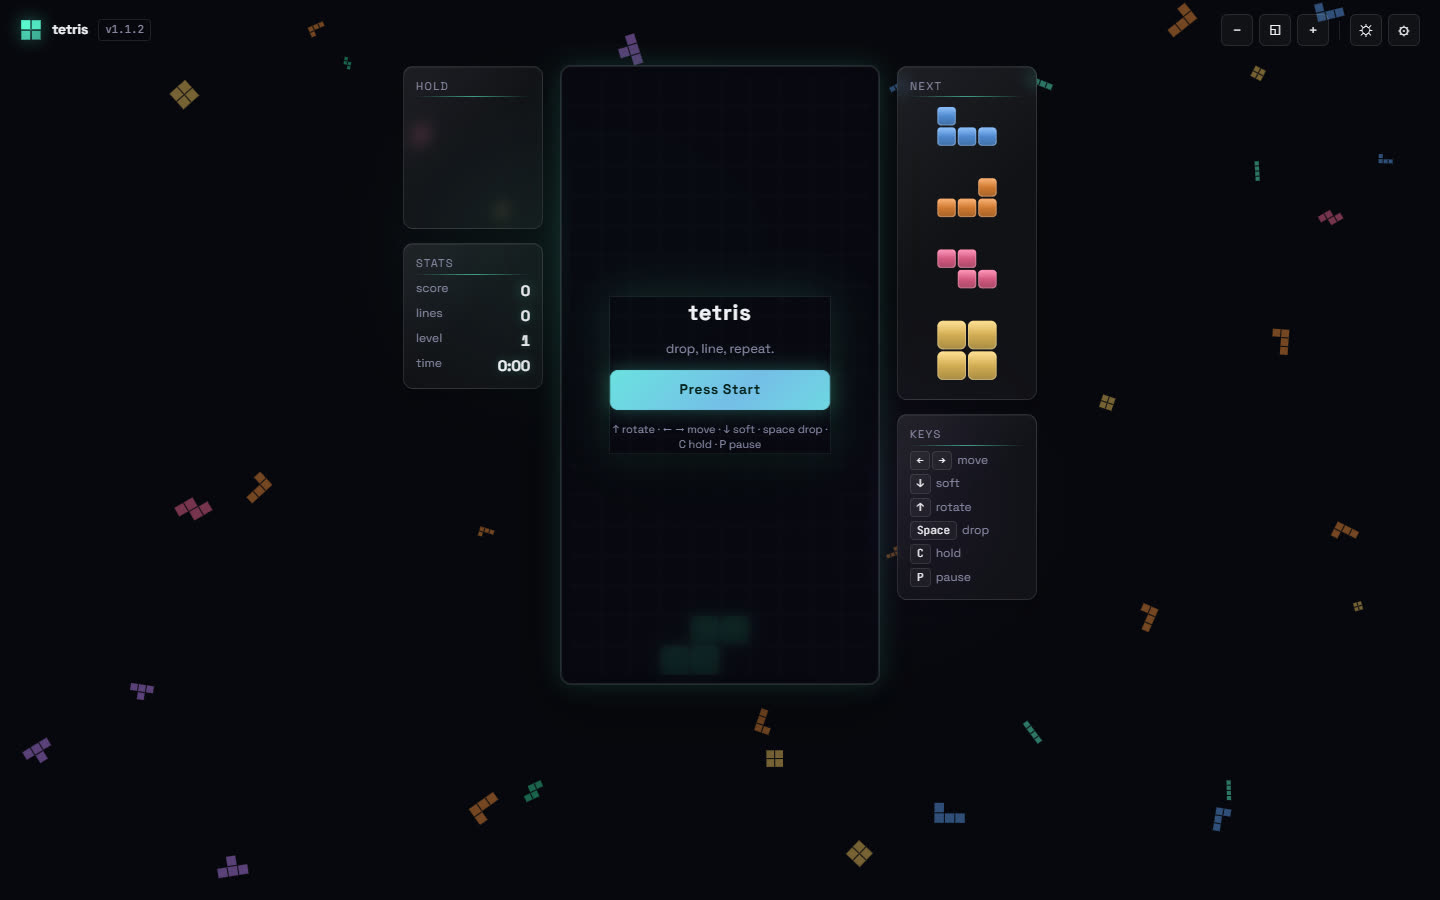
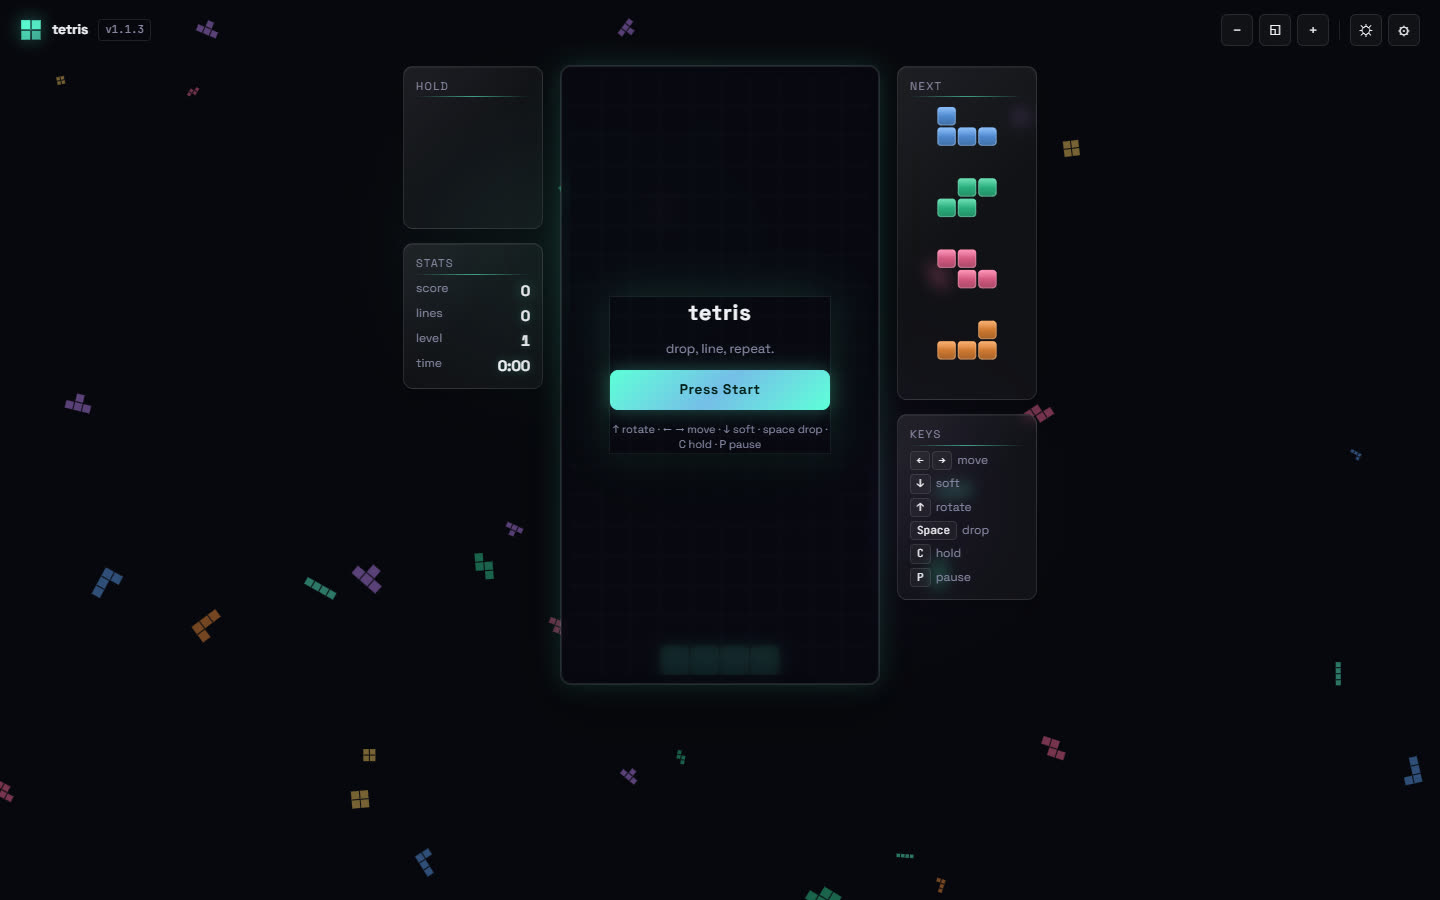
feat: v1.1.3 — Press Start shake animation + music actually plays
Changed
- Press Start CTA: replaced 'heartbeat scale' with a symmetric shake
  (±4px left/right swing, long rest phase, zero net displacement).
- Music ON by default for new users.

Fixed
- Music wasn't actually starting: Settings dialog now toggles music live
  the moment the checkbox changes (instead of only after Save). The
  checkbox click is a valid user gesture, which is what browsers need
  to unlock the AudioContext.
- Same live-toggle pattern applied to the SFX checkbox.

Docs
- Refreshed README screenshot to v1.1.3.

diff --git a/public/css/game.css b/public/css/game.css
@@ -141,22 +141,24 @@ body.vpad-on .vpad { display: grid; }
   .game-wrap { gap: 10px; }
 }
 
-/* Modern theme — overlay CTA (Press Start) uses a CARDIAC HEARTBEAT.
- * The previous shimmer used translateX(100%) which made the highlight slide
- * off to the right of the button; users perceived it as the layout breaking.
- * Replaced with a contained, in-place heartbeat: scale + glow that breathes
- * around the button without ever shifting horizontally. The two-beat curve
- * (strong-pause-soft-pause) mimics a real cardiac rhythm. */
+/* Modern theme — overlay CTA (Press Start) uses a SHAKE animation.
+ * A symmetric left-right wobble with zero net displacement: the button
+ * starts and ends at exactly the same X, and swings briefly to each side
+ * by only a few pixels. Followed by a long rest phase so the motion stays
+ * an attention-grabber rather than a distraction. The translation amount
+ * is small enough that the button never approaches its container edges. */
 html[data-theme="modern"] .overlay-card .cta {
   position: relative;
   transform-origin: center;
 }
-@keyframes cta-heartbeat {
-  0%   { transform: scale(1);     box-shadow: 0 0 18px color-mix(in srgb, var(--color-accent) 28%, transparent); }
-  14%  { transform: scale(1.045); box-shadow: 0 0 28px color-mix(in srgb, var(--color-accent) 55%, transparent); }
-  28%  { transform: scale(1);     box-shadow: 0 0 18px color-mix(in srgb, var(--color-accent) 28%, transparent); }
-  42%  { transform: scale(1.025); box-shadow: 0 0 22px color-mix(in srgb, var(--color-accent) 40%, transparent); }
-  60%, 100% { transform: scale(1); box-shadow: 0 0 18px color-mix(in srgb, var(--color-accent) 28%, transparent); }
+@keyframes cta-shake {
+  0%, 70%, 100% { transform: translateX(0); }
+  74%  { transform: translateX(-4px); }
+  78%  { transform: translateX(4px); }
+  82%  { transform: translateX(-3px); }
+  86%  { transform: translateX(3px); }
+  90%  { transform: translateX(-2px); }
+  94%  { transform: translateX(2px); }
 }
 
 /* =====================================================================
@@ -222,24 +224,23 @@ html[data-theme="modern"] #next-canvas { animation-delay: -2.5s; }
   50%      { transform: translateY(-2px); }
 }
 
-/* CTA background gradient — a calm sweep that LOOPS inside the button
- * (small horizontal swing, never reaching the edges), so motion stays
- * inside the bounds. Combined with cta-heartbeat above. */
+/* CTA gradient + the shake animation. The gradient is static (no animated
+ * background-position) so the only motion is the controlled shake. Glow
+ * pulses gently along with each shake to give the impulse some weight. */
 html[data-theme="modern"] .overlay-card .cta {
   background: linear-gradient(135deg,
     var(--color-accent) 0%,
     color-mix(in srgb, var(--color-accent) 60%, #9b5cff) 50%,
     var(--color-accent) 100%);
-  background-size: 220% 220%;
-  background-position: 50% 50%;
+  box-shadow: 0 0 22px color-mix(in srgb, var(--color-accent) 38%, transparent);
   animation:
-    cta-heartbeat 1.6s ease-in-out infinite,
-    cta-gradient-loop 6s ease-in-out infinite;
-  will-change: transform, box-shadow, background-position;
+    cta-shake 2.4s ease-in-out infinite,
+    cta-glow 2.4s ease-in-out infinite;
+  will-change: transform, box-shadow;
 }
-@keyframes cta-gradient-loop {
-  0%, 100% { background-position: 35% 50%; }
-  50%      { background-position: 65% 50%; }
+@keyframes cta-glow {
+  0%, 70%, 100% { box-shadow: 0 0 18px color-mix(in srgb, var(--color-accent) 30%, transparent); }
+  85%           { box-shadow: 0 0 32px color-mix(in srgb, var(--color-accent) 60%, transparent); }
 }
 
 /* Stats values glow staggered — calm equalizer feel down the right rail. */

diff --git a/public/js/app.js b/public/js/app.js
@@ -25,7 +25,7 @@ import { Scoreboard } from './scoreboard.js';
 // Bump this string on every release; it ends up inside every signed receipt
 // so users can prove which client version played the game. Pair it with the
 // version string in index.html for consistency.
-const CLIENT_VERSION = '1.1.2';
+const CLIENT_VERSION = '1.1.3';
 
 // Convenience: jQuery's $ but it's just querySelector.
 const $ = (q) => document.querySelector(q);
@@ -220,6 +220,18 @@ $('#btn-settings').addEventListener('click', () => {
 // Live-update the zoom output label as the range slider moves.
 settingsDialog.querySelector('input[name=zoom]').addEventListener('input', (e) => {
   settingsDialog.querySelector('output[name=zoom-out]').value = e.target.value + '%';
+});
+// Live-toggle music the moment the checkbox changes (without waiting for
+// Save). Clicking the checkbox is a valid user gesture, which is what the
+// AudioContext needs to unlock on iOS/Safari — so the music can actually
+// start playing here even if the player hasn't yet hit Press Start.
+settingsDialog.querySelector('input[name=music]').addEventListener('change', (e) => {
+  sound.ensure();
+  sound.setMusic(e.target.checked);
+});
+// Same for SFX — toggle live so the player hears the effect on rotate/move.
+settingsDialog.querySelector('input[name=sfx]').addEventListener('change', (e) => {
+  sound.enabled = e.target.checked;
 });
 // On close, if the user clicked "Save", harvest form values and persist.
 // <dialog>'s returnValue is set by the <button value="save"> that closed it.

diff --git a/public/index.html b/public/index.html
@@ -29,7 +29,7 @@
         <rect x="13" y="13" width="9" height="9" fill="currentColor" opacity=".8"/>
       </svg>
       <span>tetris</span>
-      <span class="brand-version">v1.1.2</span>
+      <span class="brand-version">v1.1.3</span>
     </a>
     <nav class="topbar-actions">
       <button class="iconbtn" id="btn-zoom-out" title="Zoom out" aria-label="Zoom out">−</button>

diff --git a/public/js/storage.js b/public/js/storage.js
@@ -25,7 +25,7 @@ const DEFAULTS = {
   fit: false,          // auto-fit to viewport on load
   vpadMode: 'auto',    // auto | always | never  (auto = show on touch devices)
   sfx: true,
-  music: false,        // reserved — there's no music track yet
+  music: true,         // procedural Korobeiniki loop, on by default in v1.1.3+
   server: '',          // override scoreboard URL; empty = auto-detect same-origin
   identity: { name: '', tagline: '', email: '' },  // last submitted identity
 };

diff --git a/CHANGELOG.md b/CHANGELOG.md
@@ -2,6 +2,16 @@
 
 All notable changes to **tetris** will be documented here. Format inspired by [Keep a Changelog](https://keepachangelog.com/), versioning follows [SemVer](https://semver.org/).
 
+## [1.1.3] — 2026-06-14
+
+### Changed
+- **Press Start CTA animation** swapped from "heartbeat scale" to a **shake** — a symmetric left/right wobble (±4px) with a long rest phase. Zero net displacement; the button starts and ends at exactly the same X.
+- **Music is on by default.** New users get Korobeiniki the moment they hit Press Start. Existing users whose `music` preference is already saved keep their choice.
+
+### Fixed
+- **Music wasn't actually starting** for most users. The Settings dialog now toggles music *live* the moment the checkbox changes (instead of only after pressing Save). Clicking the checkbox is itself a user gesture, which is what browsers require to unlock the AudioContext.
+- Same live-toggle now applies to the SFX checkbox.
+
 ## [1.1.2] — 2026-06-14
 
 ### Added

diff --git a/README.md b/README.md
@@ -4,7 +4,7 @@
 
 **Play it now → [tetris.rocks](https://tetris.rocks/)**
 
-[![Version](https://img.shields.io/badge/version-1.1.2-blue.svg)](https://github.com/paulfxyz/tetris/releases/tag/v1.1.2)
+[![Version](https://img.shields.io/badge/version-1.1.3-blue.svg)](https://github.com/paulfxyz/tetris/releases/tag/v1.1.3)
 [![License: MIT](https://img.shields.io/badge/license-MIT-blue.svg)](LICENSE)
 [![No deps](https://img.shields.io/badge/frontend-zero%20deps-brightgreen)](#)
 [![Offline ready](https://img.shields.io/badge/PWA-offline%20ready-success)](#)